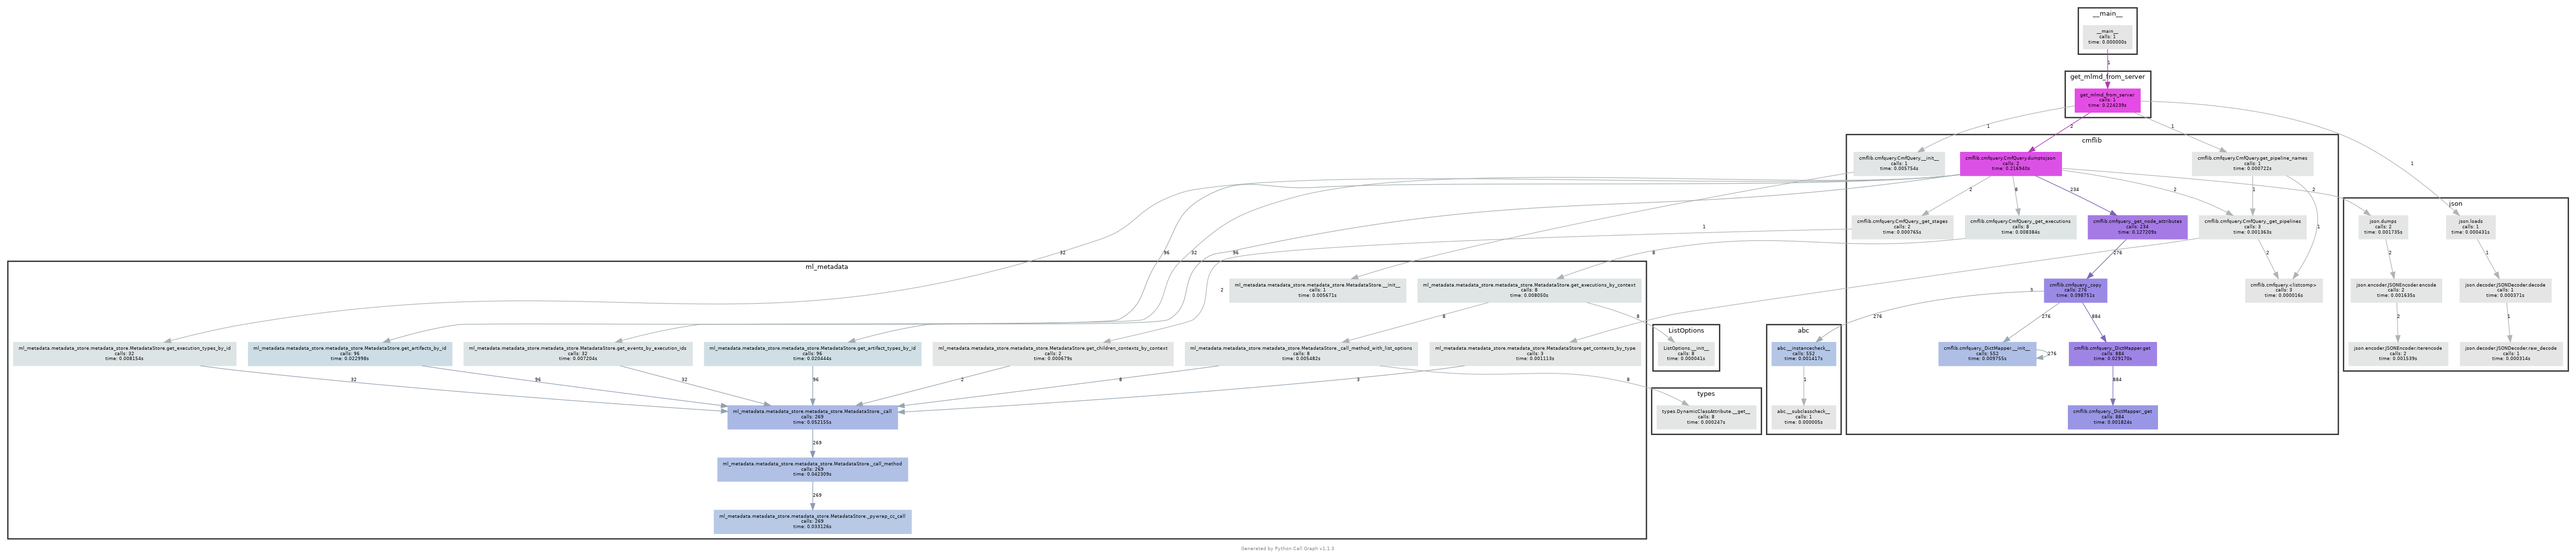
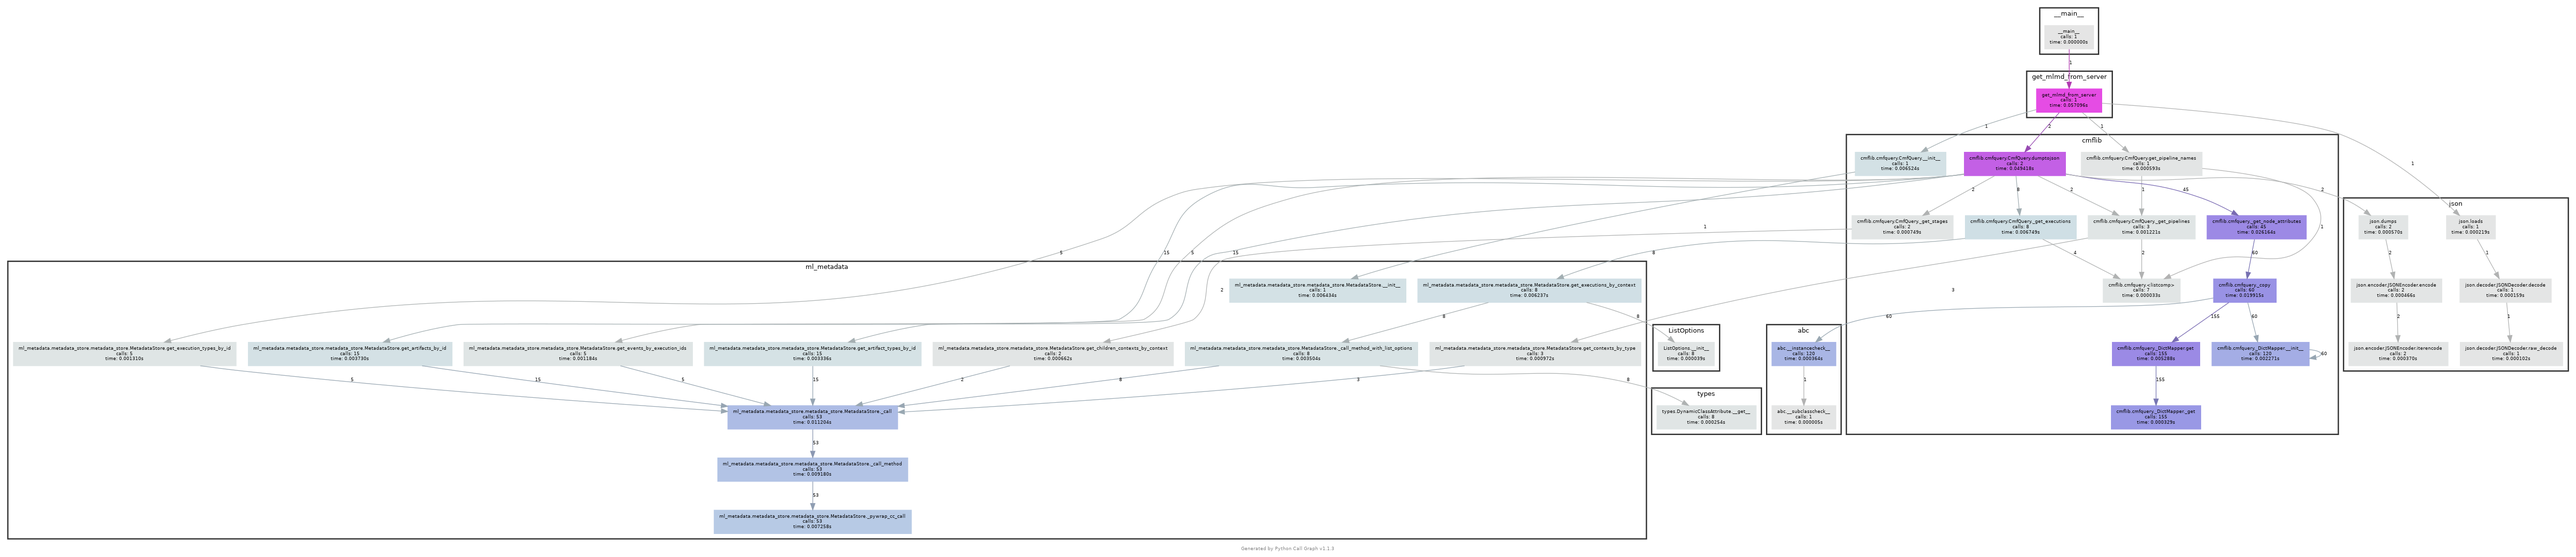
Added updated functions

diff --git a/pycallgraph/create_unique_exe_new.py b/pycallgraph/create_unique_exe_new.py
@@ -8,10 +8,8 @@ import typing as t
 import json, glob
 import os
 
-mlmdfilePath="/home/ayesha/cmf-server/data/mlmd"
-pipeline_name="Test-env"
-query = cmfquery.CmfQuery(mlmdfilePath)
-req_info = query.dumptojson(pipeline_name)
+query = cmfquery.CmfQuery("/home/ayesha/cmf-server/data/mlmd")
+req_info = query.dumptojson("Test-env")
 info = json.loads(req_info)
 
 
@@ -24,13 +22,10 @@ def create_unique_executions(server_store_path, req_info):
         list_executions_exists = []
         if os.path.exists(server_store_path):
             query = cmfquery.CmfQuery(server_store_path)
-            stages = query.get_pipeline_stages(pipeline_name)
-            for stage in stages:
-                executions = []
-                executions = query.get_all_executions_in_stage(stage)
-                for i in executions.index:
-                    for uuid in executions['Execution_uuid'][i].split(","):
-                        executions_server.append(uuid)
+            executions = query.get_all_executions_in_pipeline(pipeline_name)
+            for i in executions.index:
+                for uuid in executions['Execution_uuid'][i].split(","):
+                    executions_server.append(uuid)
             executions_client = []
             for i in mlmd_data['Pipeline'][0]["stages"]:  # checks if given execution_id present in mlmd
                 for j in i["executions"]:
@@ -74,7 +69,7 @@ def create_unique_exe() -> None:
                                                    "logging.*", "absl.*", "typing.*", "threading.*", "sre_compile.*", "sre_parse.*", "codecs.*",
                                                    "warnings.*", "os.*", "subprocess.*", "<lambda>", "encodings.*", "gzip.*", "genericpath.*", 
                                                    "_process_posts", "enum.*", "uuid.*", "xml.*", "pandas.*", "numpy.*"])
-    graphviz = GraphvizOutput(output_file='create_unique_exe.png')
+    graphviz = GraphvizOutput(output_file='create_unique_exe_new.png')
     with PyCallGraph(output=graphviz, config=config):
         mlmdfilePath="/home/ayesha/cmf-server/data/mlmd"
         pipeline_name="Test-env"

diff --git a/server/app/get_data.py b/server/app/get_data.py
@@ -197,13 +197,10 @@ async def create_unique_executions(server_store_path, req_info):
     list_executions_exists = []
     if os.path.exists(server_store_path):
         query = cmfquery.CmfQuery(server_store_path)
-        stages = query.get_pipeline_stages(pipeline_name)
-        for stage in stages:
-            executions = []
-            executions = query.get_all_executions_in_stage(stage)
-            for i in executions.index:
-                for uuid in executions['Execution_uuid'][i].split(","):
-                    executions_server.append(uuid)
+        executions = query.get_all_executions_in_pipeline(pipeline)
+        for i in executions.index:
+            for uuid in executions['Execution_uuid'][i].split(","):
+                executions_server.append(uuid)
         executions_client = []
         for i in mlmd_data['Pipeline'][0]["stages"]:  # checks if given execution_id present in mlmd
             for j in i["executions"]:

diff --git a/pycallgraph/get_mlmd_from_server_new.py b/pycallgraph/get_mlmd_from_server_new.py
@@ -34,8 +34,8 @@ def get_mlmd() -> None:
     graphviz = GraphvizOutput(output_file='mlmd_from_server_new.png')
     with PyCallGraph(output=graphviz, config=config):
         mlmdfilePath="/home/ayesha/cmf-server/data/mlmd"
-        pipeline_name="Test-env1"
-        jsonInfo = get_mlmd_from_server(mlmdfilePath, pipeline_name, 6)
+        pipeline_name="Test-env"
+        jsonInfo = get_mlmd_from_server(mlmdfilePath, pipeline_name, None)
         print(jsonInfo)
 
 if __name__ == '__main__':
